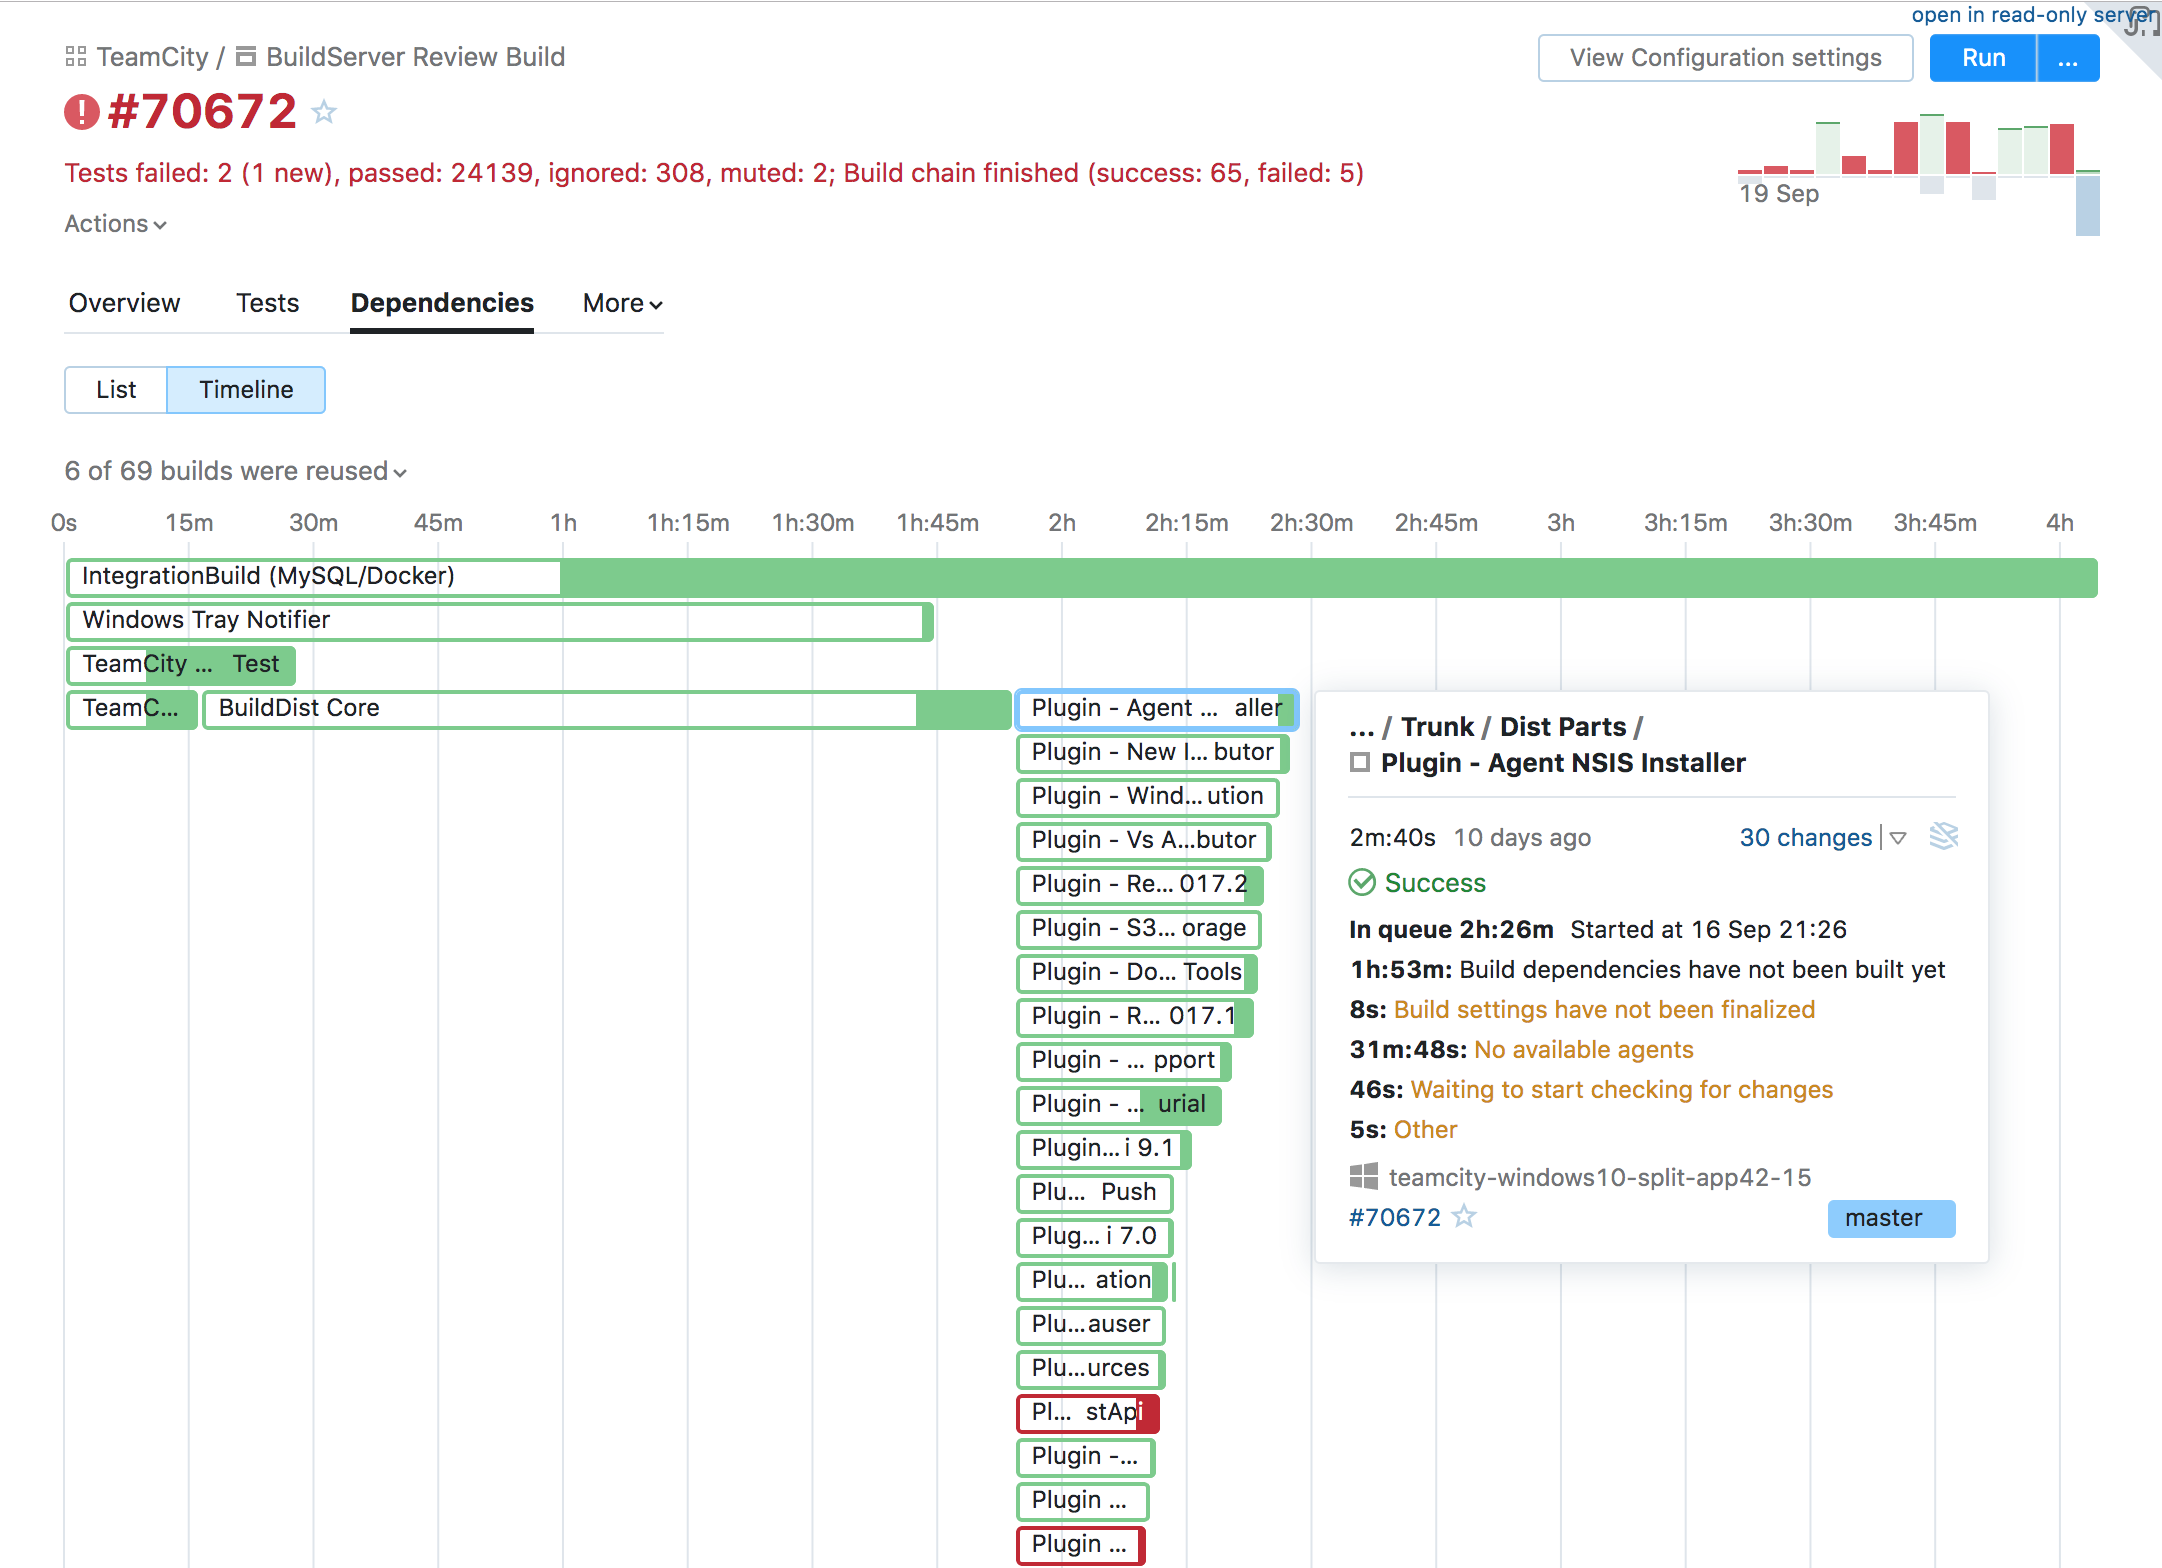
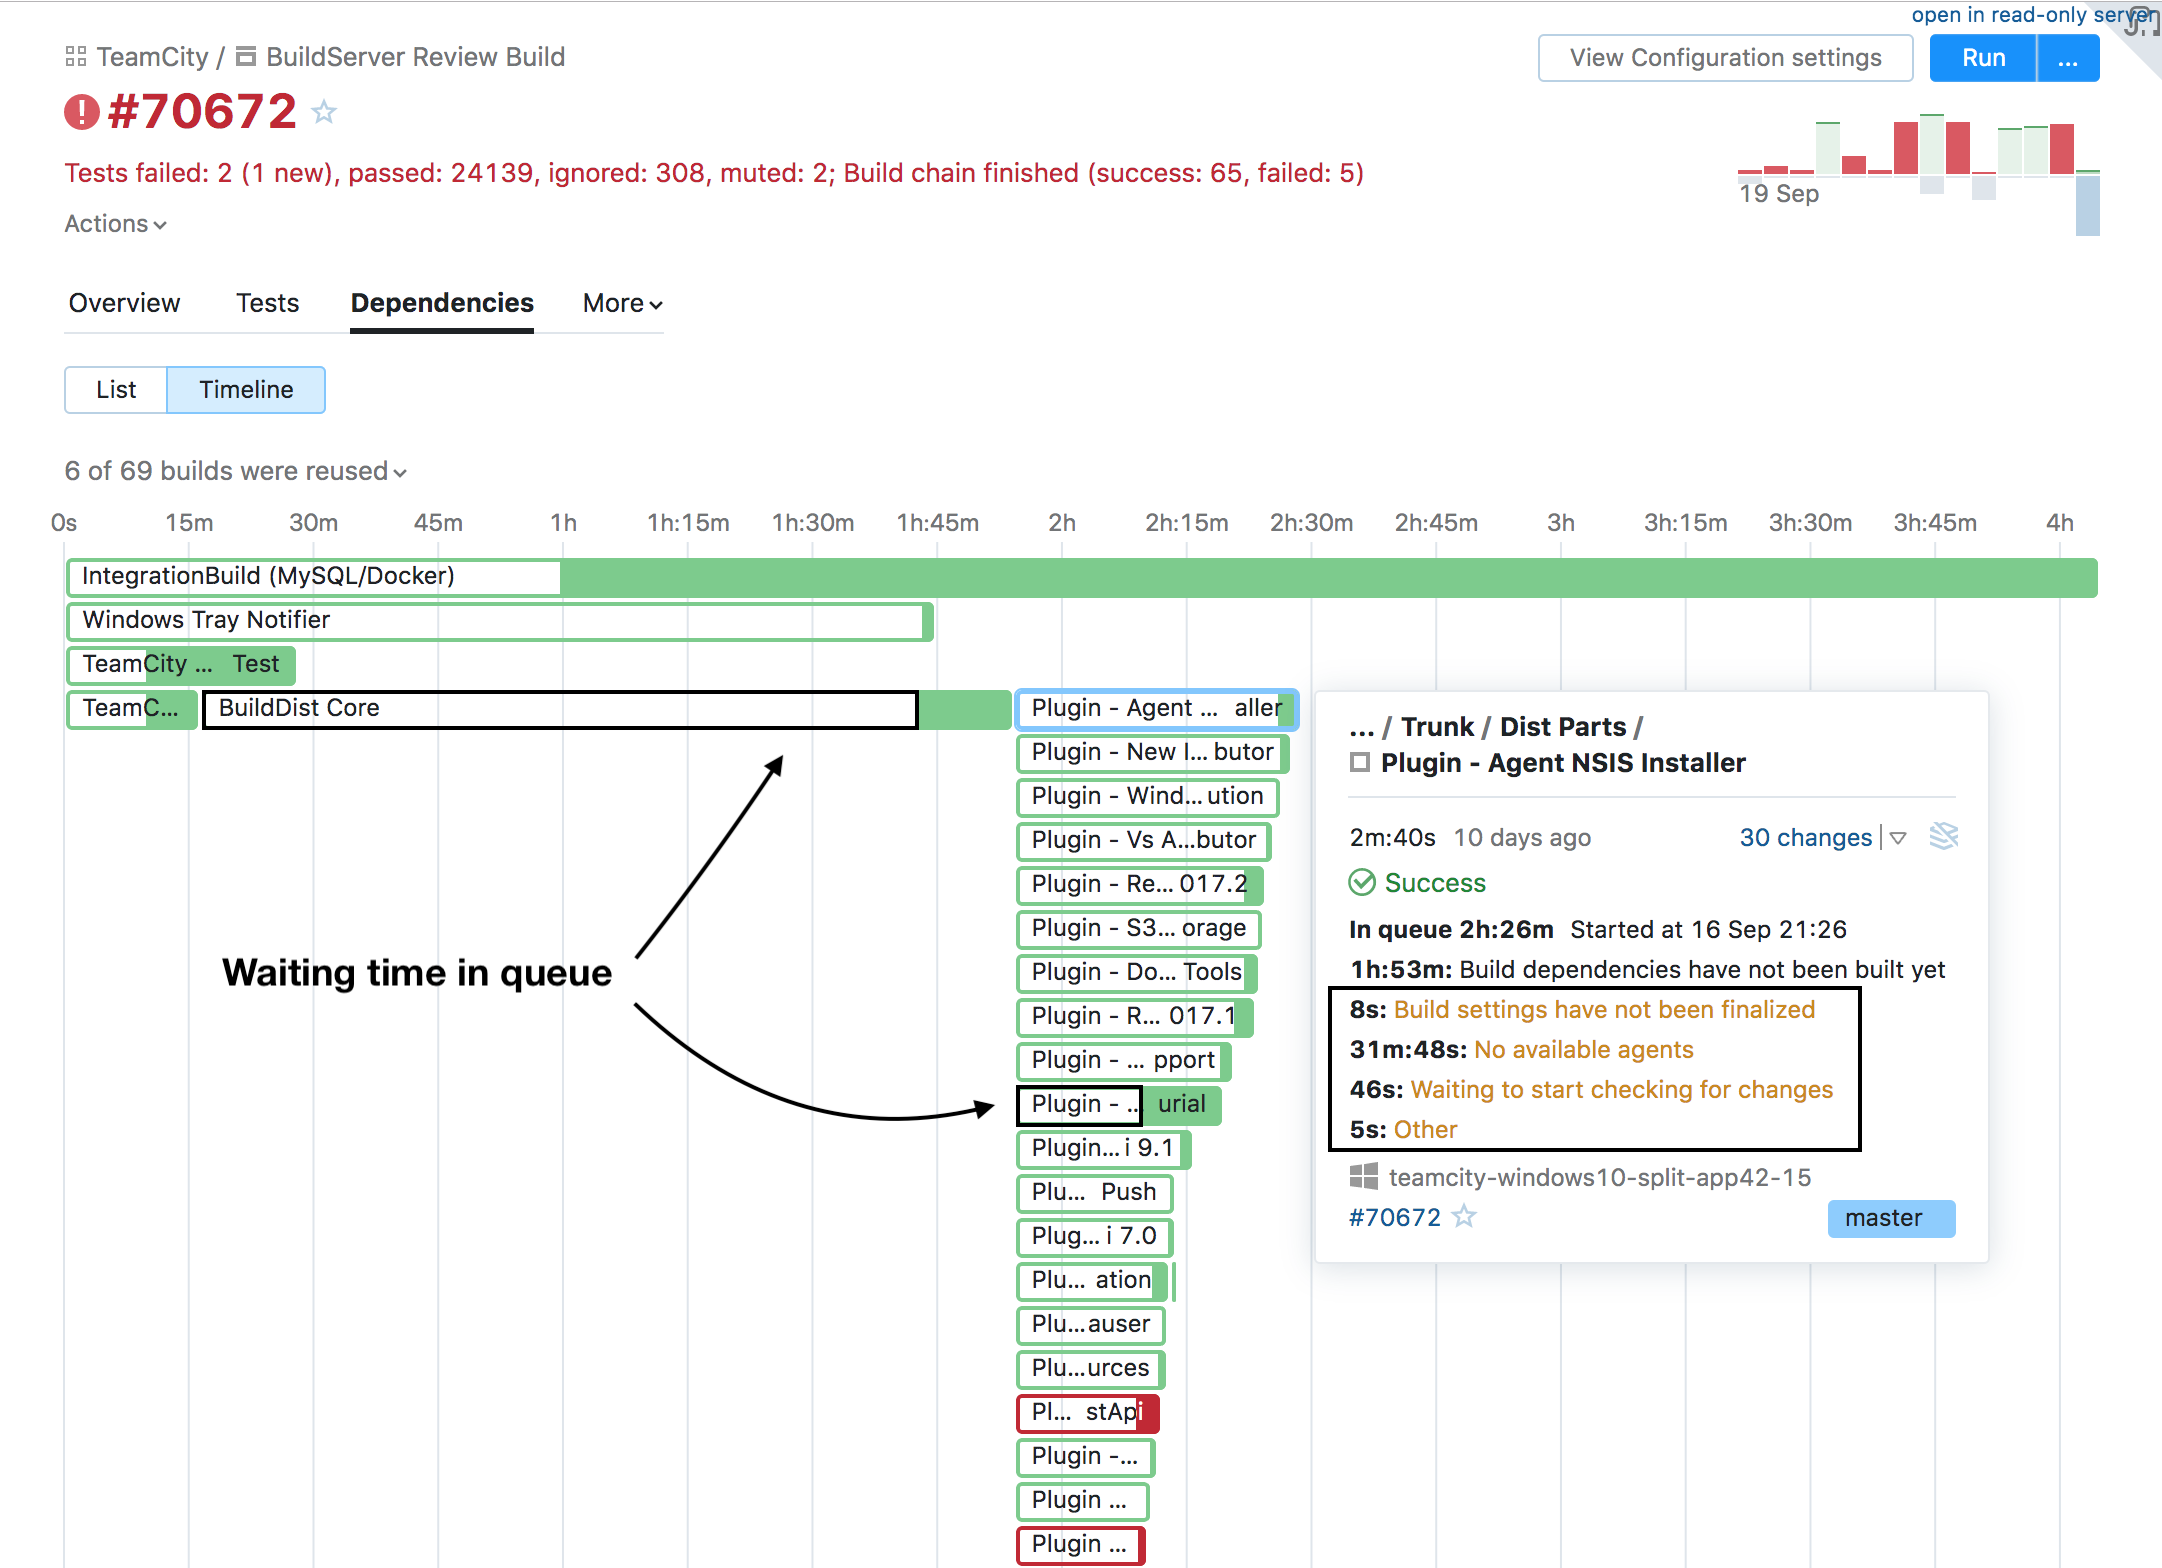
New page: dependencies

diff --git a/Dependencies.md b/Dependencies.md
@@ -2,7 +2,7 @@
 
 There are two ways to discover your build dependencies: either as a list or as a timeline.
 
-## List view 
+## List View 
 
 You can list all your dependencies:
 
@@ -12,3 +12,12 @@ Or sort them by their origin:
 
 <img src="Images/dependencies_hierarchy.png">
 
+## Timeline View
+
+The new timeline is here to replace the build chains. 
+
+<img src="Images/dependencies_timeline.png">
+
+Clicking on any of the builds will open a pop-up window. Information that might be 
+important for the user is highlighted in orange (e.g. 'No available agents').
+ 
